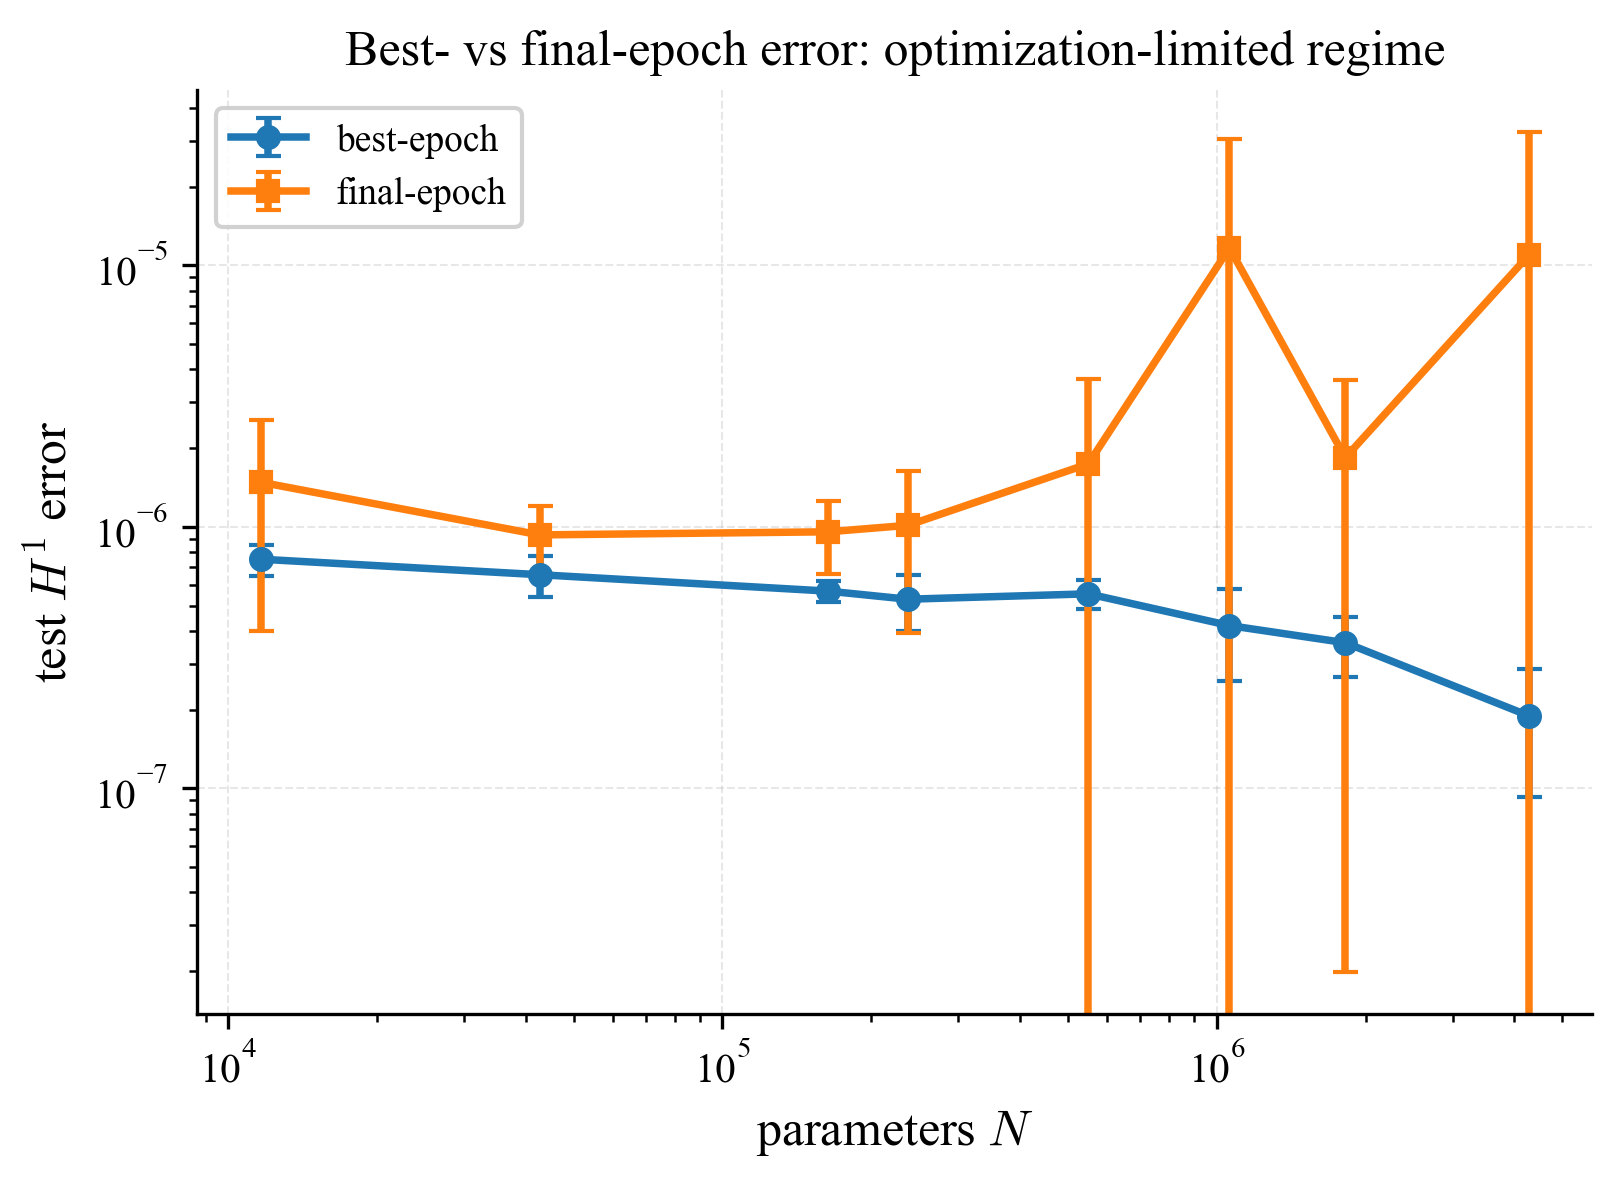
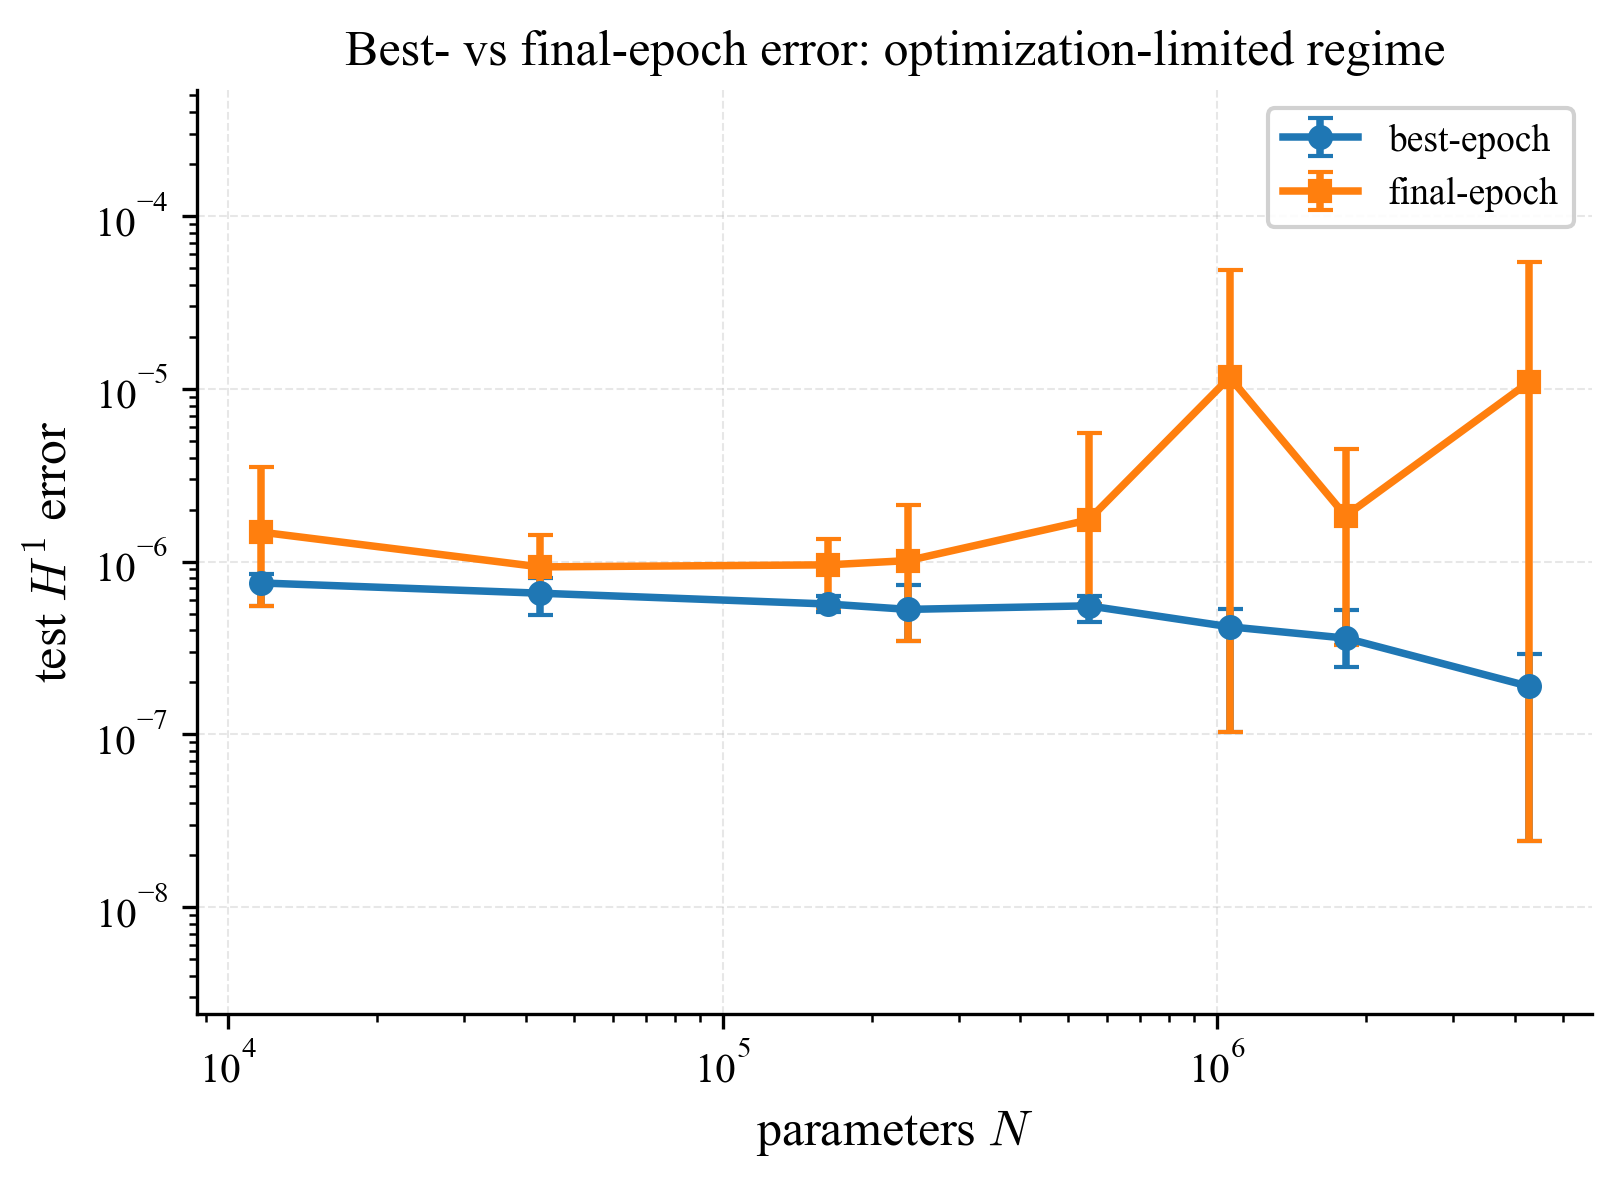
Enhance error bar calculations in fig_best_vs_final function for improved visualization. Replace standard deviation with min/max error bars for best and final epochs. Adjust y-axis limits to prevent clipping of error caps. Update binary image for best vs final epoch comparison.

diff --git a/numerics/make_paper_figures.py b/numerics/make_paper_figures.py
@@ -101,17 +101,30 @@ def fig_best_vs_final(results_path, out_path):
 
     P = np.array([c["params"] for c in configs], float)
     best_mean = np.array([np.mean(c["best_list"]) for c in configs])
-    best_std = np.array([np.std(c["best_list"]) for c in configs])
     final_mean = np.array([np.mean(c["final_list"]) for c in configs])
-    final_std = np.array([np.std(c["final_list"]) for c in configs])
+    # Per-seed min/max error bars (std can go negative on a log axis and clip).
+    best_lo = np.array([np.min(c["best_list"]) for c in configs])
+    best_hi = np.array([np.max(c["best_list"]) for c in configs])
+    final_lo = np.array([np.min(c["final_list"]) for c in configs])
+    final_hi = np.array([np.max(c["final_list"]) for c in configs])
+    best_yerr = np.array([best_mean - best_lo, best_hi - best_mean])
+    final_yerr = np.array([final_mean - final_lo, final_hi - final_mean])
 
     assert np.all(final_mean >= best_mean - 1e-15 * np.maximum(best_mean, 1.0))
 
+    all_vals = []
+    for c in configs:
+        all_vals.extend(c["best_list"])
+        all_vals.extend(c["final_list"])
+    ylo, yhi = float(min(all_vals)), float(max(all_vals))
+
     fig, ax = plt.subplots()
-    ax.errorbar(P, best_mean, yerr=best_std, fmt="o-", capsize=3, label="best-epoch")
-    ax.errorbar(P, final_mean, yerr=final_std, fmt="s-", capsize=3, label="final-epoch")
+    ax.errorbar(P, best_mean, yerr=best_yerr, fmt="o-", capsize=3, label="best-epoch")
+    ax.errorbar(P, final_mean, yerr=final_yerr, fmt="s-", capsize=3, label="final-epoch")
     ax.set_xscale("log")
     ax.set_yscale("log")
+    # Pad one log-decade beyond observed range so error caps are not clipped.
+    ax.set_ylim(ylo / 10.0, yhi * 10.0)
     ax.set_xlabel("parameters $N$")
     ax.set_ylabel(r"test $H^1$ error")
     ax.set_title("Best- vs final-epoch error: optimization-limited regime")